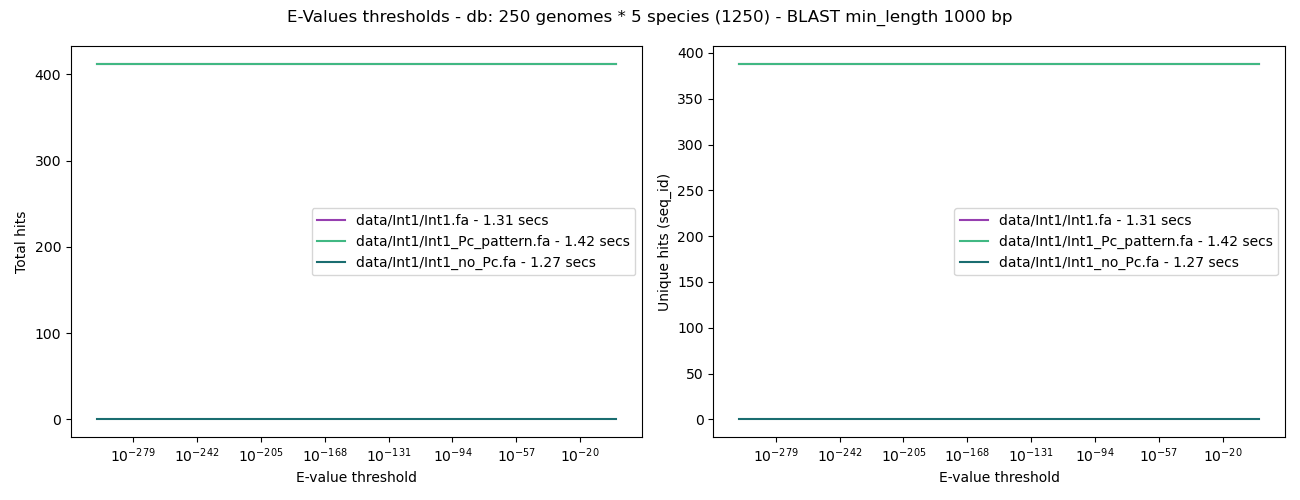
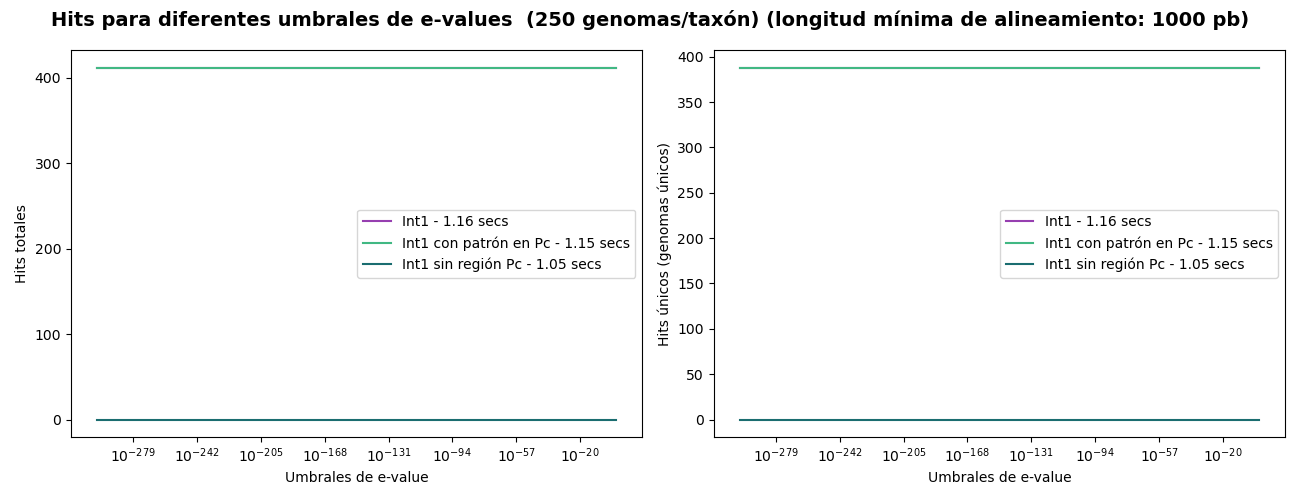
changes to fix plots

diff --git a/scripts/plot/plotting.py b/scripts/plot/plotting.py
@@ -10,8 +10,9 @@ from matplotlib.patches import Patch
 # Plotting
 
 #------------------------ Function to plot e-values distribution
-def plot_evalue(logdata, labels, 
-                title = "E-value Distribution", outdir = "results/plots", 
+def plot_evalue(logdata, labels, min_lengts,
+                colors = ["#963FB0", "#41B883", "#1A6D70"],
+                title = "Distribución e-value", outdir = "results/plots", 
                 filename = "evalue_distribution.png"):
     """
     Saves a boxplot of the -log10 of e-values for each query.
@@ -20,54 +21,115 @@ def plot_evalue(logdata, labels,
     ------
     logata (list): A list of lists containing the -log10 of e-values for each query.
     labels (list): A list of the names of the queries.
+    min_lengts (list): A list of the minimum lengths for each query.
+    colors (list, optional): A list of colors for the boxplots.
     title (str, optional): The title of the plot.
     outdir (str, optional): The directory where the plot will be saved.
     filename (str, optional): The name of the file where the plot will be saved.
     """
     # Creates the output directory to avoid errors
     os.makedirs(outdir, exist_ok=True)
+
+    n_queries = len(labels) # Number of queries
+    width = 0.25 # Width of each box
     
-    fig, ax = plt.subplots(figsize=(7, 5)) # Creates axes for the plot
-    # Creates the boxplot with the data and labels defined
-    ax.boxplot(logdata, tick_labels=labels) 
-    # Adjusting labels / title:
-    ax.set_ylabel("-log10(E-value)") # Y label
-    ax.set_title(title) # Title of the plot
-    plt.xticks(rotation=20) # Rotates the x-axis labels
-    plt.tight_layout() # Adjusts the layout to avoid overlapping
-    # Saves the plot
-    plt.savefig(os.path.join(outdir, filename)) 
+    fig, ax = plt.subplots(figsize=(10, 6))
+    
+    for idx_g, group in enumerate(logdata): # Iterates over each query
+        for idx_v, values in enumerate(group): # Iterates over each value in the query
+            # To adjust the position of each boxplot
+            pos = idx_g + (idx_v - (n_queries - 1) / 2) * width 
+
+            # Creates a boxplot for each value with a specific color and position
+            boxplots = plt.boxplot(values, positions = [pos], 
+                                    widths = width*0.9, patch_artist = True,
+                                    flierprops=dict(markerfacecolor=colors[idx_v],
+                                            ))
+            # To apply colors to the boxes
+            boxplots["boxes"][0].set(facecolor = colors[idx_v])
+            
+            for median in boxplots["medians"]: # To convert the median line to black
+                median.set(color = "black")
+    
+    ax.set_xticks(range(len(min_lengts))) # Ticks of the x-axis
+    ax.tick_params(axis = "y", labelsize = 10) # Ticks of the y-axis
+    
+    ax.set_xticklabels(min_lengts, fontsize = 10) # Labels for the x-axis
+    ax.set_xlabel("Longitud mínima del alineamiento", fontsize = 10) # Title of the x-axis
+        
+    ax.set_ylabel("-log10(e-value)", fontsize = 10) # Label of the x-axis
+    
+    ax.set_title(title, fontsize=12, fontweight="bold") # Title
+    legend = []
+    for c, l in zip(colors, labels): # To create the legend
+        legend.append(Patch(facecolor=c, label=l))
+    # Creates the legend with the labels and colors defined
+    ax.legend(handles = legend,
+                fontsize = 10, loc = "lower right", 
+                title = "Consultas", title_fontsize = 10)
+    
+    plt.tight_layout()
+    plt.savefig(os.path.join(outdir, filename))
     plt.close(fig)
-    return
+    return    
+
 
 #------------------------ Function to plot bitscore distribution
-def plot_bitscore(bitscore_data, labels, 
-                  title = "BitScore Distribution", outdir = "results/plots", 
+def plot_bitscore(bitscore_data, labels, min_lengts,
+                  colors = ["#963FB0", "#41B883", "#1A6D70"],
+                  title = "Distribución BitScore", outdir = "results/plots", 
                   filename = "bitscore_distribution.png"):
     """
-    Saves a boxplot of the bitscores for each query.
+    Saves a combined boxplot of the bitscores for each query.
         
     Args
     ------
     bitscore_data (list): A list of lists containing the bitscores for each query.
     labels (list): A list of the names of the queries.
+    min_lengts (list): A list of the minimum lengths for each query.
+    colors (list, optional): A list of colors for the boxplots.
     title (str, optional): The title of the plot.
     outdir (str, optional): The directory where the plot will be saved.
     filename (str, optional): The name of the file where the plot will be saved.
-    
     """
     # Creates the output directory to avoid errors
     os.makedirs(outdir, exist_ok=True)
 
-    fig, ax = plt.subplots(figsize=(7, 5)) # Creates axes for the plot
-    # Creates the boxplot with the data and labels defined
-    ax.boxplot(bitscore_data, tick_labels=labels)
-    # Adjusting labels / title:
-    ax.set_ylabel("BitScore") # Y label
-    ax.set_title(title) # Title of the plot
-    plt.xticks(rotation=20) # Rotates the x-axis labels
-    plt.tight_layout() # Adjusts the layout to avoid overlapping
-    # Saves the plot
+    n_queries = len(labels) # Number of queries
+    width = 0.25 # Width of each box
+
+    fig, ax = plt.subplots(figsize=(10, 6))
+    
+    for idx_g, group in enumerate(bitscore_data): # Iterates over each query
+        for idx_v, values in enumerate(group): # Iterates over each value in the query
+            # To adjust the position of each boxplot
+            pos = idx_g + (idx_v - (n_queries - 1) / 2) * width 
+
+            # Creates a boxplot for each value with a specific color and position
+            boxplots = plt.boxplot(values, positions = [pos], 
+                                   widths = width*0.9, patch_artist = True)
+            # To apply colors to the boxes
+            boxplots["boxes"][0].set(facecolor = colors[idx_v])
+            
+            for median in boxplots["medians"]: # To convert the median line to black
+                median.set(color = "black")
+    
+    ax.set_xticks(range(len(min_lengts))) # Ticks of the x-axis
+    ax.tick_params(axis = "y", labelsize = 10) # Ticks of the y-axis
+    
+    ax.set_xticklabels(min_lengts, fontsize = 10) # Labels for the x-axis
+    ax.set_xlabel("Longitud mínima del alineamiento", fontsize = 10) # Title of the x-axis
+    
+    ax.set_title(title, fontsize=12, fontweight="bold") # Title
+    legend = []
+    for c, l in zip(colors, labels): # To create the legend
+        legend.append(Patch(facecolor=c, label=l))
+    # Creates the legend with the labels and colors defined
+    ax.legend(handles = legend,
+              fontsize = 10, loc = "lower right", 
+              title = "Consultas", title_fontsize = 10)
+    
+    plt.tight_layout()
     plt.savefig(os.path.join(outdir, filename))
     plt.close(fig)
     return
@@ -96,7 +158,12 @@ def plot_evalue_thresholds(dfs, times,
     os.makedirs(outdir, exist_ok=True)
     fig, axes = plt.subplots(1, 2, figsize=(13, 5))
     # Iterate over each query and its corresponding dataframe and color
-    for (query, df), color in zip(dfs.items(), colors): 
+    for (query, df), color in zip(dfs.items(), colors):
+
+        changing_query_labels = {"data/Int1/Int1.fa" : "Int1",
+                                 "data/Int1/Int1_Pc_pattern.fa" : "Int1 con patrón en Pc",
+                                 "data/Int1/Int1_no_Pc.fa" : "Int1 sin región Pc"}
+       
         # Lists to store the number of hits and unique genomes for each e-value threshold
         n_hits = []
         n_unique = []
@@ -106,18 +173,18 @@ def plot_evalue_thresholds(dfs, times,
             n_hits.append(evalue_mask.sum()) # Counts the number of hits 
             n_unique.append(df.loc[evalue_mask, "seq_id"].nunique()) # Counts the number of seq_id 
 
-        label = f"{query} - {times[query]:.2f} secs"
+        label = f"{changing_query_labels[query]} - {times[query]:.2f} secs"
         axes[0].plot(evalues, n_hits, label = label, color = color)
         axes[1].plot(evalues, n_unique, label = label, color = color)
 
     for ax in axes:
         ax.set_xscale("log")
-        ax.set_xlabel("E-value threshold")
+        ax.set_xlabel("Umbrales de e-value", fontsize=10)
         ax.legend()
-    axes[0].set_ylabel("Total hits")
-    axes[1].set_ylabel("Unique hits (seq_id)")
+    axes[0].set_ylabel("Hits totales", fontsize=10)
+    axes[1].set_ylabel("Hits únicos (genomas únicos)", fontsize=10)
 
-    fig.suptitle(title)
+    fig.suptitle(title, fontsize=14, fontweight="bold")
     fig.tight_layout()
     fig.savefig(os.path.join(outdir, filename))
     plt.close(fig)

diff --git a/scripts/T1_Integrall_Pc_abundance.py b/scripts/T1_Integrall_Pc_abundance.py
@@ -99,10 +99,10 @@ def write_count_table_xlsx(count_table,
 def count_table_plots(count_table,
                       eskapee_count_table,
                       eskapee = ["Escherichia coli", "Klebsiella pneumoniae", 
-                                              "Pseudomonas aeruginosa", "Acinetobacter baumannii",
-                                              "Enterobacter spp."],
-                      title = ["Pc distribution in ESKAPEE species", 
-                               "Relative abundance of promoters"],
+                                 "Pseudomonas aeruginosa", "Acinetobacter baumannii",
+                                 "Enterobacter spp."],
+                      title = ["A) Distribución de Pc en especies ESKAPEE", 
+                               "                   B) Abundancia relativa de Pc en especies ESKAPEE"],
                       outdir = "./results/Integrall_analysis",
                       filename = "relative_abundance.png"
                       ):
@@ -153,9 +153,9 @@ def count_table_plots(count_table,
                   edgecolor = "black")
 
     # Labels
-    plt.title(title[0], fontweight = "bold")
+    plt.title(title[0], fontweight = "bold", fontsize = 10)
     plt.xlabel("Pc", fontweight = "bold")
-    plt.ylabel("Count", fontweight = "bold")
+    plt.ylabel("Cantidad", fontweight = "bold")
     plt.xticks(rotation = 45, ha = "right")
 
     # Plot 2: ESKAPEE Species
@@ -174,17 +174,17 @@ def count_table_plots(count_table,
                          color = colors_total, 
                          edgecolor = "black")
 
-    plt.title(title[1], fontweight = "bold")
-    plt.xlabel("ESKAPEE Species", fontweight = "bold")
-    plt.ylabel("Count", fontweight = "bold")
-    plt.xticks(rotation = 45, ha = "right")
+    plt.title(title[1], fontweight = "bold", fontsize = 10)
+    plt.xlabel("Especies ESKAPEE", fontweight = "bold")
+    plt.ylabel("Cantidad", fontweight = "bold")
+    plt.xticks(rotation = 45, ha = "right", fontstyle = "italic")
 
     # Legend in the same order as the stack (most abundant at the bottom)
     handles, labels = plt.gca().get_legend_handles_labels()
     
     # Plot legend (Pc colors)
     plt.legend(handles[::-1], labels[::-1], 
-               title = "Promoter (Pc)", bbox_to_anchor = (1.05, 1), loc = "upper left")
+               title = "Promotor (Pc)", bbox_to_anchor = (1.05, 1), loc = "upper left")
     plt.tight_layout() # Size adjustment
     # Saves the plot
     plt.savefig(os.path.join(outdir, filename))
